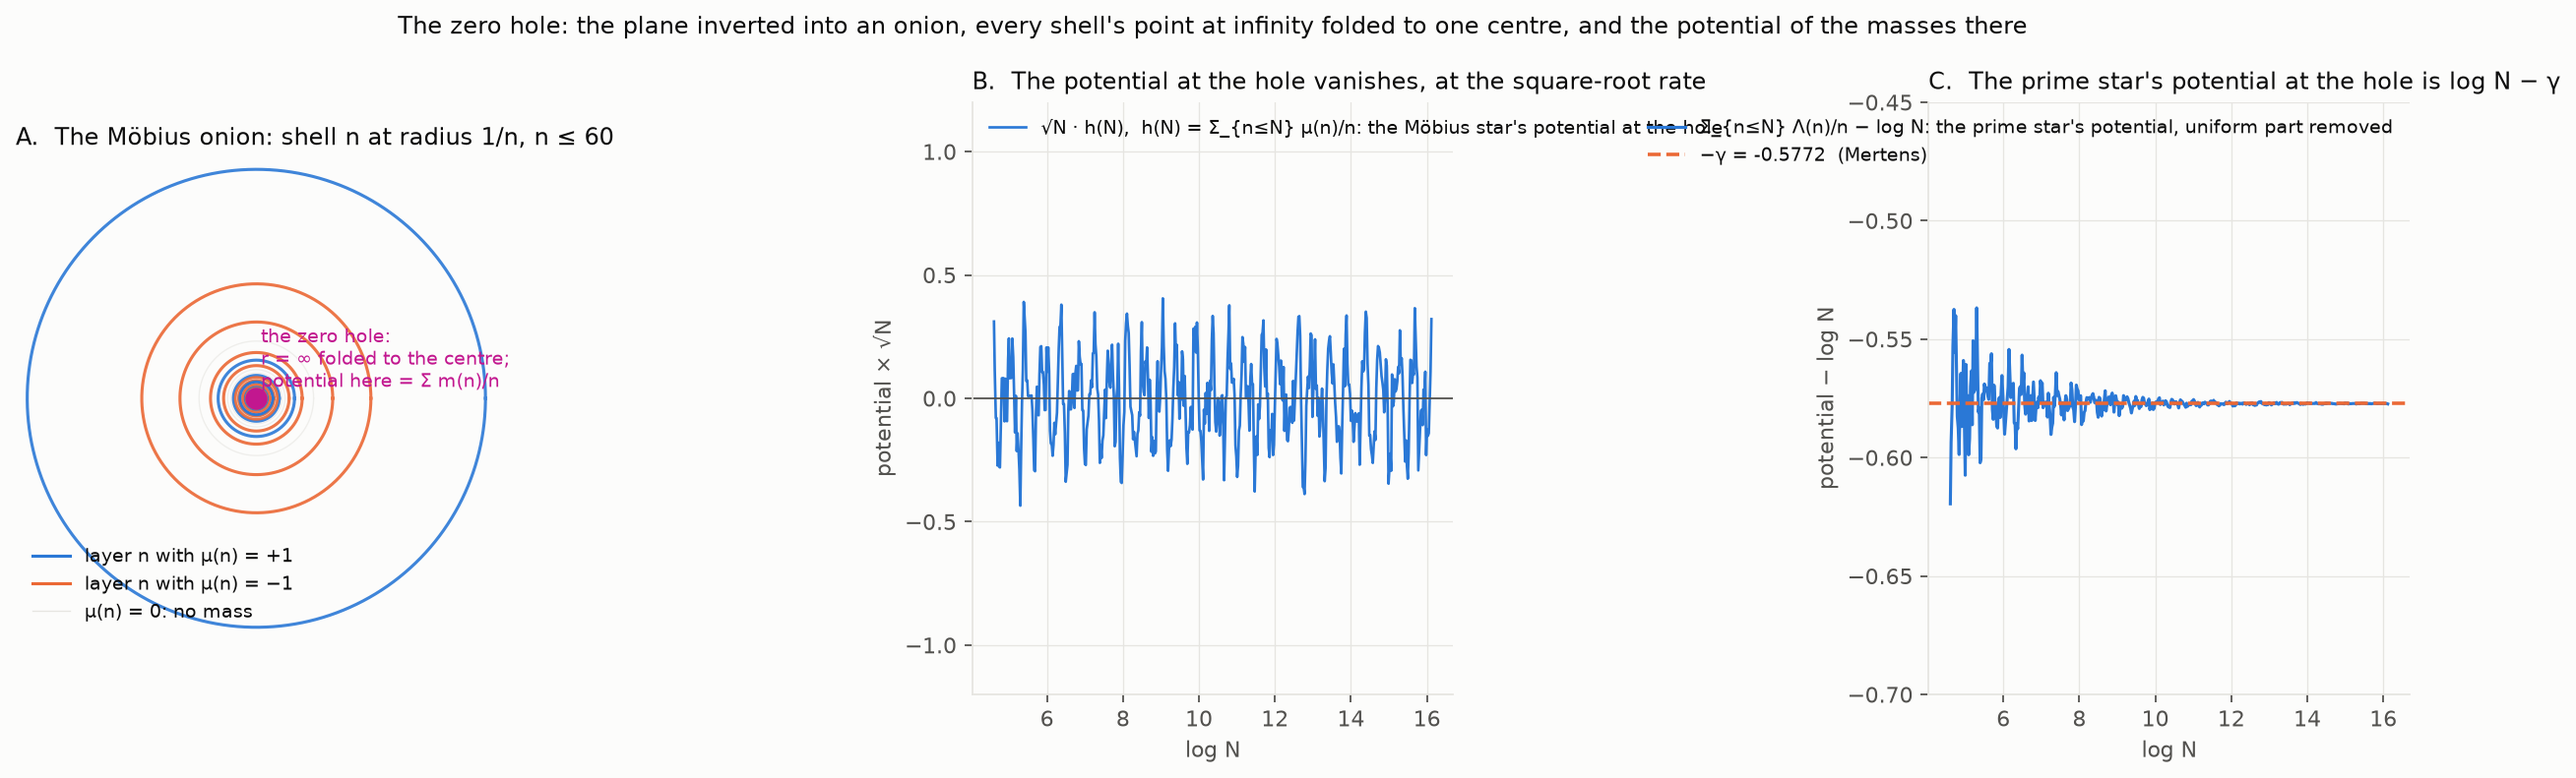
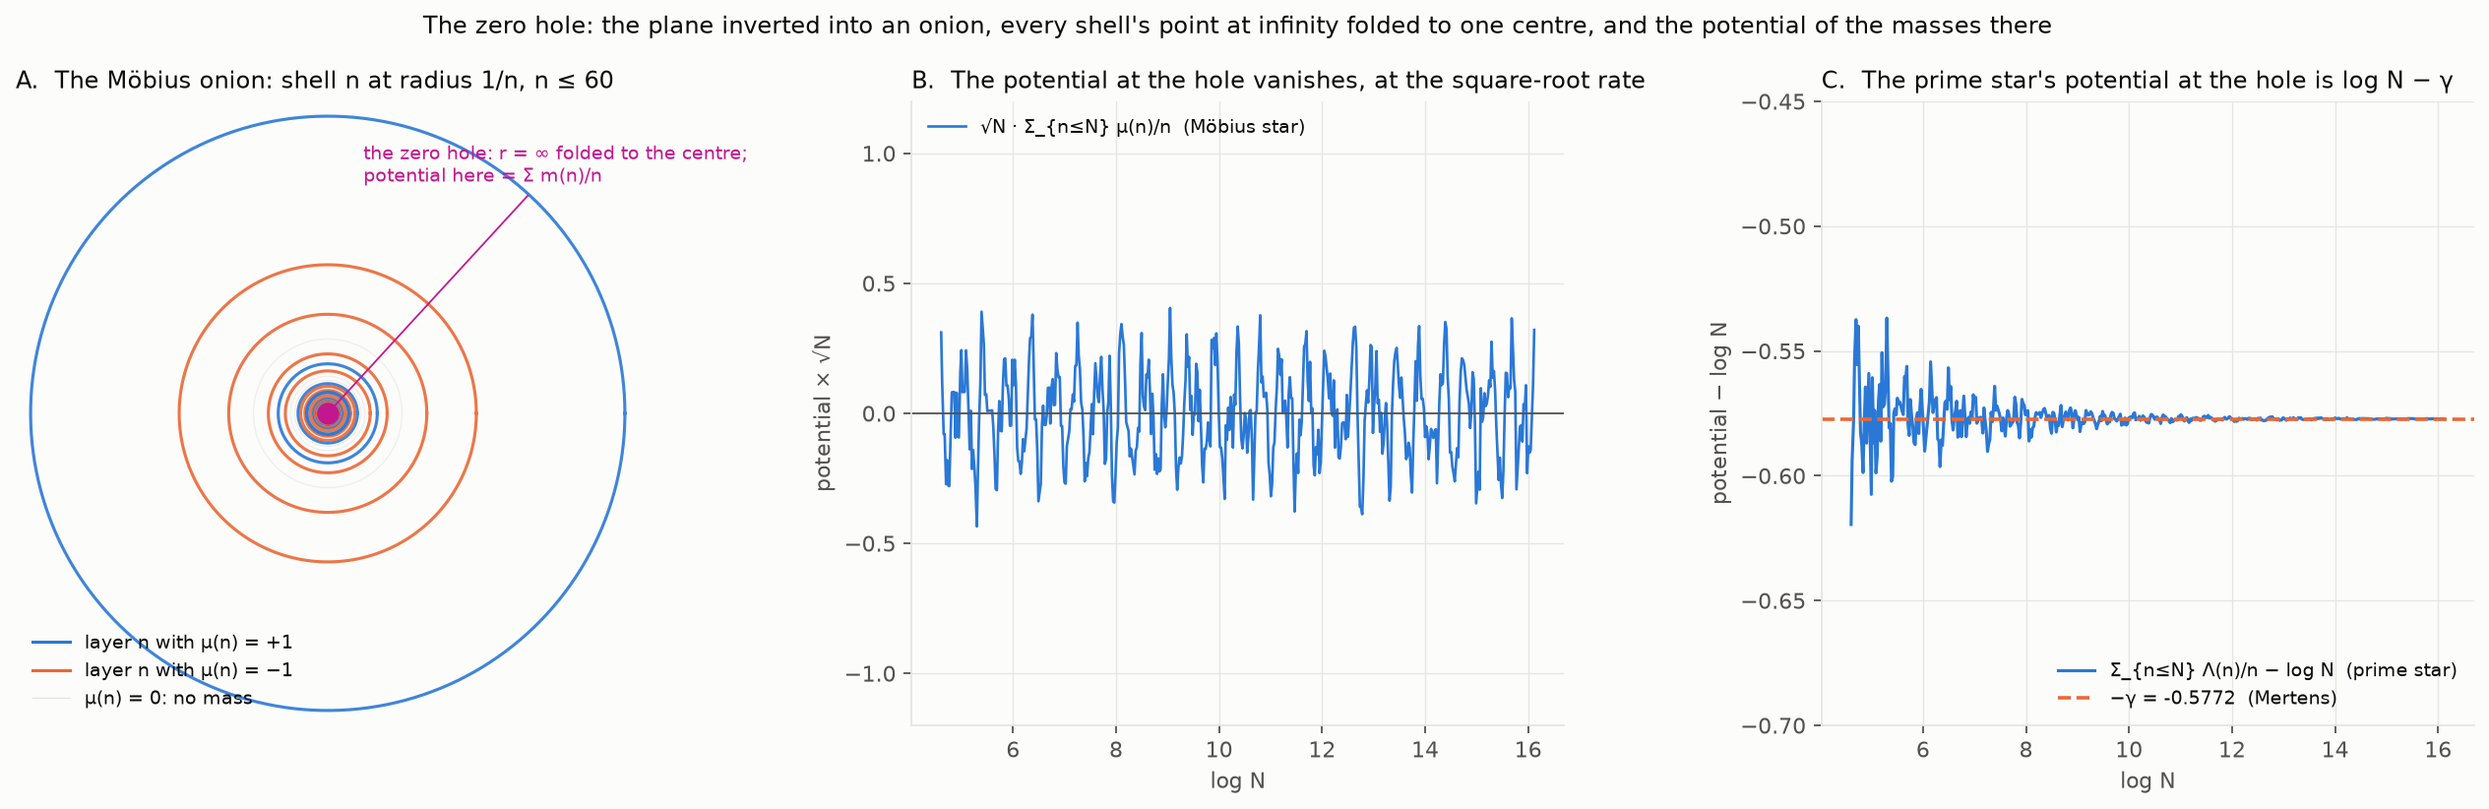
Zero hole figure: legend and annotation placement
Claude-Session: https://claude.ai/code/session_018bsQFtUftswt2PDPD9BMW9

diff --git a/rh_zero_hole.py b/rh_zero_hole.py
@@ -33,24 +33,24 @@ print(f"sqrt N * h(N) over 10^2..10^7: min {sh.min():+.3f}, max {sh.max():+.3f},
 BLUE, ORANGE, INK, INK2, SURF, GRID, MAG = "#2a78d6", "#eb6834", "#0b0b0b", "#52514e", "#fcfcfb", "#e6e5e1", "#c2178f"
 plt.rcParams.update({"font.size": 10, "axes.titlesize": 11, "axes.edgecolor": GRID, "axes.labelcolor": INK2, "xtick.color": INK2, "ytick.color": INK2,
                      "axes.spines.top": False, "axes.spines.right": False, "figure.facecolor": SURF, "axes.facecolor": SURF, "text.color": INK})
-fig = plt.figure(figsize=(15.5, 5))
+fig = plt.figure(figsize=(16, 5.2))
 A = fig.add_subplot(1, 3, 1); A.set_aspect("equal"); A.set_xticks([]); A.set_yticks([]); A.spines["left"].set_visible(False); A.spines["bottom"].set_visible(False)
 th = np.linspace(0, 2 * math.pi, 400)
 for k in range(1, 61):
     r = 1 / k; c = BLUE if mu[k] > 0 else (ORANGE if mu[k] < 0 else GRID)
     A.plot(r * np.cos(th), r * np.sin(th), color=c, lw=1.4 if mu[k] else 0.6, alpha=0.9 if mu[k] else 0.6)
-A.plot([0], [0], "o", color=MAG, ms=9); A.text(0.02, 0.05, "the zero hole:\nr = ∞ folded to the centre;\npotential here = Σ m(n)/n", fontsize=8.5, color=MAG)
+A.plot([0], [0], "o", color=MAG, ms=9); A.annotate("the zero hole: r = ∞ folded to the centre;\npotential here = Σ m(n)/n", xy=(0, 0), xytext=(0.12, 0.78), fontsize=8.5, color=MAG, arrowprops=dict(arrowstyle="-", color=MAG, lw=0.8))
 A.plot([], [], color=BLUE, lw=1.4, label="layer n with μ(n) = +1"); A.plot([], [], color=ORANGE, lw=1.4, label="layer n with μ(n) = −1"); A.plot([], [], color=GRID, lw=0.6, label="μ(n) = 0: no mass")
 A.legend(frameon=False, fontsize=8.5, loc="lower left"); A.set_xlim(-1.05, 1.05); A.set_ylim(-1.05, 1.05)
 A.set_title("A.  The Möbius onion: shell n at radius 1/n, n ≤ 60", loc="left")
 B = fig.add_subplot(1, 3, 2); B.grid(True, color=GRID, lw=0.6); B.set_axisbelow(True)
-B.plot(L, sh, color=BLUE, lw=1.2, label="√N · h(N),  h(N) = Σ_{n≤N} μ(n)/n: the Möbius star's potential at the hole")
+B.plot(L, sh, color=BLUE, lw=1.2, label="√N · Σ_{n≤N} μ(n)/n  (Möbius star)")
 B.axhline(0, color=INK2, lw=0.8); B.set_ylim(-1.2, 1.2)
 B.set_xlabel("log N"); B.set_ylabel("potential × √N"); B.set_title("B.  The potential at the hole vanishes, at the square-root rate", loc="left"); B.legend(frameon=False, fontsize=8.5, loc="upper left")
 C = fig.add_subplot(1, 3, 3); C.grid(True, color=GRID, lw=0.6); C.set_axisbelow(True)
-C.plot(L, mert[Ns] - L, color=BLUE, lw=1.4, label="Σ_{n≤N} Λ(n)/n − log N: the prime star's potential, uniform part removed")
+C.plot(L, mert[Ns] - L, color=BLUE, lw=1.4, label="Σ_{n≤N} Λ(n)/n − log N  (prime star)")
 C.axhline(-EG, color=ORANGE, lw=1.6, ls="--", label=f"−γ = {-EG:.4f}  (Mertens)")
 C.set_ylim(-0.7, -0.45); C.set_xlabel("log N"); C.set_ylabel("potential − log N")
-C.set_title("C.  The prime star's potential at the hole is log N − γ", loc="left"); C.legend(frameon=False, fontsize=8.5, loc="upper right")
+C.set_title("C.  The prime star's potential at the hole is log N − γ", loc="left"); C.legend(frameon=False, fontsize=8.5, loc="lower right")
 fig.suptitle("The zero hole: the plane inverted into an onion, every shell's point at infinity folded to one centre, and the potential of the masses there", fontsize=11)
 fig.tight_layout(); fig.savefig(out, dpi=160, bbox_inches="tight"); print("wrote", out)
